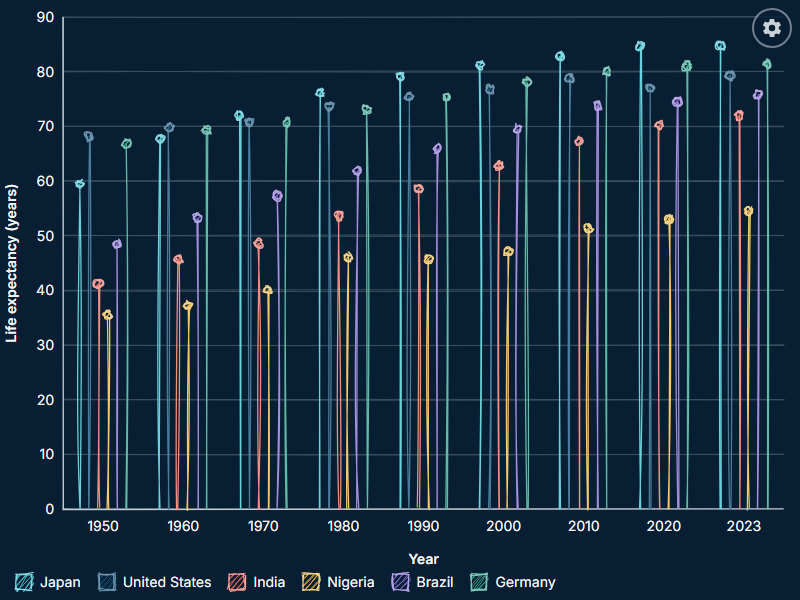
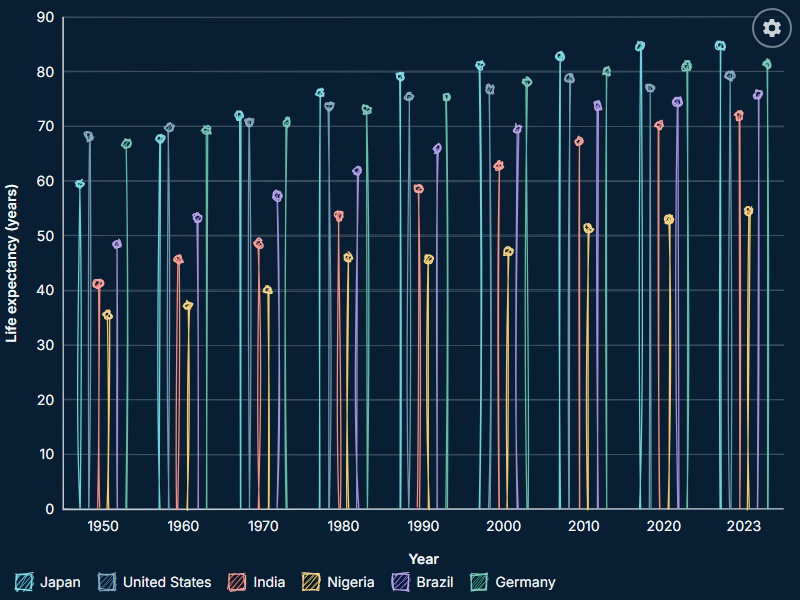
sketchbook: ctab-panel 1.1.0 wiring
Claude-Session: https://claude.ai/code/session_01LgKR4C3YaqcJ7j8irnNHQ8

diff --git a/tableau-sketchbook/src/js/sketchbook.js b/tableau-sketchbook/src/js/sketchbook.js
@@ -151,7 +151,9 @@
       state.panel.applyAppearance(state.renderer.chartBg, state.renderer.ink);
       state.panel.gear.style.display = s.showGear ? '' : 'none';
       state.panel.render();
+      try { state.panel.trace({ marks: state.model && state.model.rows ? state.model.rows.length : 0 }); } catch (e) { /* diagnostics only */ }
     }
+    diagOnEmpty(document.getElementById('sb-root'));
   }
   function onChange (keys) {
     if (keys.some(function (k) { return DATA_KEYS[k]; })) { state.model = buildModel(); state.renderer.clearSelection(); }
@@ -181,10 +183,46 @@
       var seen = {};
       state.model.rows.forEach(function (r) { if (!seen[r.series]) { seen[r.series] = 1; items.push({ key: r.series, name: r.series, color: pal[items.length % pal.length] }); } });
     }
-    return { columns: d ? d.raw.columns : [], numericColumns: d ? d.numeric : [], auto: d ? d.auto : {}, lists: { categories: items } };
+    return { columns: d ? d.raw.columns : [], numericColumns: d ? d.numeric : [], auto: d ? d.auto : {}, lists: { categories: items }, data: diagData(), tokens: diagTokens() };
+  }
+
+  /* What the diagnostics report and the title placeholders see. Cheap, and never throws. */
+  function diagData () {
+    try {
+      var d = state.raw;
+      if (!d || !d.raw) return { rows: 0, fields: [], sample: [] };
+      var rows = d.raw.rows, cols = d.raw.columns;
+      var fields = cols.map(function (c) {
+        var t = 'text';
+        for (var i = 0; i < rows.length; i++) { var v = rows[i][c]; if (v === null || v === undefined) continue; t = typeof v === 'number' ? 'number' : (v instanceof Date ? 'date' : typeof v === 'boolean' ? 'boolean' : 'text'); break; }
+        return { name: c, type: t };
+      });
+      var sample = rows.slice(0, 4).map(function (r) { var o = {}; cols.forEach(function (c) { o[c] = r[c] === undefined ? null : r[c]; }); return o; });
+      return { rows: rows.length, fields: fields, sample: sample };
+    } catch (e) { return { rows: 0, fields: [], sample: [] }; }
+  }
+  function diagTokens () {
+    try {
+      var rows = state.model && state.model.rows; if (!rows || !rows.length) return {};
+      var by = {}, total = 0, top = '', topV = -Infinity;
+      rows.forEach(function (r) { total += r.value; by[r.cat] = (by[r.cat] || 0) + r.value; if (by[r.cat] > topV) { topV = by[r.cat]; top = r.cat; } });
+      return { top: top, total: total.toLocaleString('en-US', { maximumFractionDigits: 1 }) };
+    } catch (e) { return {}; }
+  }
+  /* A Copy diagnostics button on the blank screen. One per empty box; a redraw rebuilds the box. */
+  function diagOnEmpty (root) {
+    try {
+      var e = root && root.querySelector('.sb-empty');
+      if (e && !e.querySelector('.cp-diagwrap')) CP.diagButton(e, { panel: state.panel });
+    } catch (x) { log('diag button failed', x); }
   }
 
   /* ---------------------------------------------------------------- boot */
+
+  function scheduleRedraw () {
+    if (state.resizeTimer) clearTimeout(state.resizeTimer);
+    state.resizeTimer = setTimeout(function () { state.resizeTimer = null; redraw(); }, 60);
+  }
 
   function mount (ws) {
     state.worksheet = ws;
@@ -194,11 +232,10 @@
     migrateLegacy(state.store, st);
     var root = document.getElementById('sb-root');
     state.renderer = new global.SB.Renderer(root);
-    state.panel = CP.create(root, { title: 'Sketchbook settings', schema: SET.schema, store: state.store, info: info, state: state.store.panelState, prefix: PREFIX });
-    global.addEventListener('resize', function () {
-      if (state.resizeTimer) clearTimeout(state.resizeTimer);
-      state.resizeTimer = setTimeout(function () { state.resizeTimer = null; redraw(); }, 60);
-    });
+    state.panel = CP.create(root, { title: 'Sketchbook settings', schema: SET.schema, store: state.store, info: info, state: state.store.panelState, prefix: PREFIX, version: '1.0.0',
+      /* Pinned to the side the panel pulls the chart in from the right; window resize does not fire, so say so. */
+      onLayout: function () { if (state.model) scheduleRedraw(); } });
+    global.addEventListener('resize', scheduleRedraw);
     var T = global.tableau.TableauEventType || {};
     [T.SummaryDataChanged, T.FilterChanged, T.ParameterChanged, T.WorksheetFormattingChanged].forEach(function (evt) {
       if (!evt || !ws.addEventListener) return;
@@ -222,7 +259,7 @@
     }).catch(function (e) {
       log('initializeAsync failed', e);
       var root = document.getElementById('sb-root');
-      if (root) root.innerHTML = '<div class="sb-empty">This extension could not start. Check the browser console.</div>';
+      if (root) { root.innerHTML = '<div class="sb-empty">This extension could not start. Check the browser console.</div>'; diagOnEmpty(root); }
     });
   }
 

diff --git a/tableau-sketchbook/test/run.js b/tableau-sketchbook/test/run.js
@@ -47,7 +47,7 @@ try {
   eq('good fill style kept', co('fillStyle', 'zigzag'), 'zigzag');
   eq('chart types are bar, line, dot', rowOf('chartType').opts.map(o => o.value), ['bar', 'line', 'dot']);
   eq('fill styles include the three old ones first', rowOf('fillStyle').opts.map(o => o.value).slice(0, 3), ['hachure', 'solid', 'zigzag']);
-  ok('no row is a slider', S.prepared.rows.every(r => ['check', 'number', 'chips', 'select', 'color', 'text', 'font', 'palette', 'field', 'list', 'note'].includes(r.type)));
+  ok('no row is a slider', S.prepared.rows.every(r => ['check', 'number', 'chips', 'select', 'color', 'text', 'font', 'palette', 'field', 'list', 'note', 'preview', 'action'].includes(r.type)));
   ok('every number row that carries text has a 14px floor', ['labelSize', 'valueLabelSize', 'tipSize', 'titleSize', 'legendSwatch'].every(k => rowOf(k).min >= 14));
   const nSet = S.KEYS.length;
   ok('at least 40 settings (' + nSet + ')', nSet >= 40);

diff --git a/tableau-sketchbook/test/panel_test.py b/tableau-sketchbook/test/panel_test.py
@@ -130,7 +130,7 @@ def panel_behaviour(b):
     check('gear opens the panel inside the frame', pg.is_visible('.cp-panel') and inside(pg.evaluate(RECT, '.cp-panel'), f))
     tabs = pg.evaluate("[...document.querySelectorAll('.cp-tab')].map(t => t.textContent)")
     check('tabs: 7 chart tabs, the nine standard ones, Panel (%d)' % len(tabs), len(tabs) >= MIN_TABS and tabs[:7] == ['Chart', 'Sketch', 'Marks', 'Axes', 'Grid', 'Title underline', 'Legend'] and 'Fields' in tabs and 'Number format' in tabs, str(tabs))
-    n = pg.evaluate("SB.app.state.store.rows.filter(r => r.type !== 'note').length")
+    n = pg.evaluate("SB.app.state.store.rows.filter(r => !['note', 'preview', 'action'].includes(r.type)).length")
     check('at least 40 settings (%d)' % n, n >= 40)
     stats['settings'] = n
     # drag clamps to the frame
@@ -182,9 +182,9 @@ def panel_behaviour(b):
     pg.fill('input[data-k=seed]', '9'); pg.press('input[data-k=seed]', 'Enter')
     pg.wait_for_function('SB.app.state.store.get().seed === 9')
     # copy and paste round trip
-    pg.click('[data-a=copy]')
+    pg.click('[data-f=copyall]')
     pg.wait_for_function("document.querySelector('.cp-status').textContent.indexOf('Copied') === 0", timeout=5000)
-    txt = pg.evaluate('SB.app.state.panel.lastCopied'); obj = json.loads(txt)
+    txt = pg.evaluate('SB.app.state.panel.lastCopied'); obj = json.loads(txt)['settings']  # 1.1.0: a labeled block { ctab, chart, name, kind, copied, settings }
     check('Copy settings gives flat JSON with every setting (%d keys)' % len(obj), len(obj) >= n and obj['seed'] == 9 and 'roughness' in obj and 'labelSize' in obj and isinstance(obj['catColors'], list), len(obj))
     clip = pg.evaluate('navigator.clipboard.readText()')
     check('the clipboard holds the same text', clip.replace('\r\n', '\n') == txt)
@@ -239,7 +239,7 @@ def sheet_and_shots(b):
 # ------------------------------------------------------------------ every setting changes the render
 
 FLIP_JS = """(cfg) => {
-  const st = SB.app.state, store = st.store, rows = store.rows.filter(r => r.type !== 'note');
+  const st = SB.app.state, store = st.store, rows = store.rows.filter(r => !['note', 'preview', 'action'].includes(r.type));
   const byKey = {}; rows.forEach(r => byKey[r.key] = r);
   const optVals = r => (r.opts || []).map(o => Array.isArray(o) ? o[0] : o.value);
   const defaults = {}; rows.forEach(r => defaults[r.key] = JSON.parse(JSON.stringify(r.def)));
@@ -338,7 +338,7 @@ def flip_every_setting(b):
         if a == c:
             unchanged.append('%s (%s -> %r)' % (key, typ, v))
     check('EVERY setting changes the render when flipped (%d of %d flipped, each from a baseline that shows it)' % (stats['flipped'], len(keys)), not unchanged, 'NO CHANGE: ' + '; '.join(unchanged))
-    pg.evaluate("(() => { const st = SB.app.state.store, d = {}; st.rows.forEach(r => { if (r.type !== 'note') d[r.key] = JSON.parse(JSON.stringify(r.def)); }); st.setMany(Object.assign(d, { bgMode: 'custom', bgColor: '#081f33' })); })()")
+    pg.evaluate("(() => { const st = SB.app.state.store, d = {}; st.rows.forEach(r => { if (!['note', 'preview', 'action'].includes(r.type)) d[r.key] = JSON.parse(JSON.stringify(r.def)); }); st.setMany(Object.assign(d, { bgMode: 'custom', bgColor: '#081f33' })); })()")
     pg.evaluate('new Promise(r => requestAnimationFrame(() => requestAnimationFrame(r)))')
     cs = pg.evaluate(CENTERS)
     pg.mouse.move(*cs['mark'], steps=2)

diff --git a/tableau-sketchbook/test/standin_test.py b/tableau-sketchbook/test/standin_test.py
@@ -84,9 +84,9 @@ def main():
                 page.click('[data-a=inc][data-k=roughness]')
                 page.wait_for_timeout(500)
                 check(f'[{name}] a visitor stepper click works on the stand-in', int(page.get_attribute('#sb-root', 'data-marks')) == 54 and not errs, str(errs[:2]))
-                page.click('[data-a=copy]')
+                page.click('[data-f=copyall]')
                 page.wait_for_function("document.querySelector('.cp-status').textContent.indexOf('Copied') === 0 || document.querySelector('.cp-status').textContent.indexOf('clipboard') > 0", timeout=5000)
-                copied = json.loads(page.evaluate('SB.app.state.panel.lastCopied'))
+                copied = json.loads(page.evaluate('SB.app.state.panel.lastCopied'))["settings"]
                 check(f'[{name}] Copy settings gives the flat JSON the Viz pages flow reads ({len(copied)} keys)', len(copied) >= 90 and copied['seed'] == page.evaluate('SB.app.state.store.get().seed') and 'chartType' in copied and 'roughness' in copied)
                 page.click('[data-a=close]')
                 band = page.locator('.sb-hit').nth(3).bounding_box()
